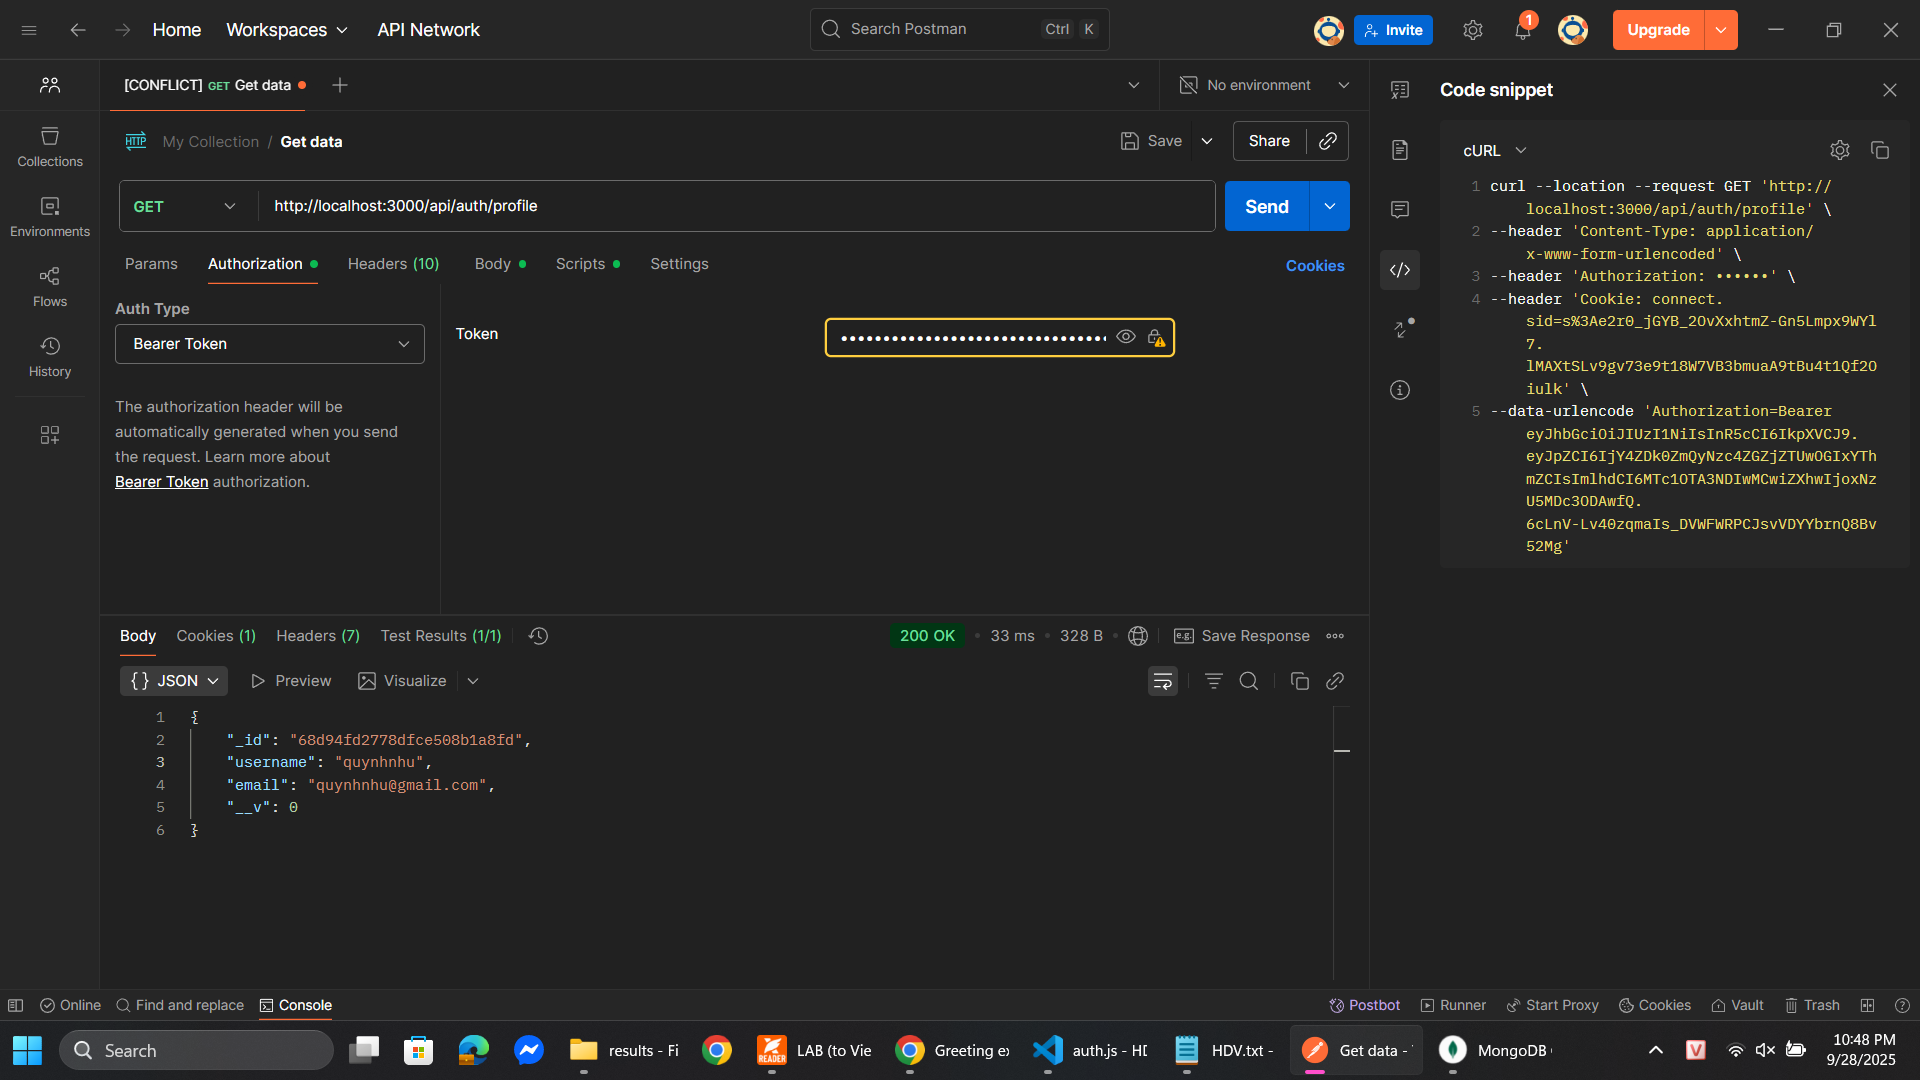
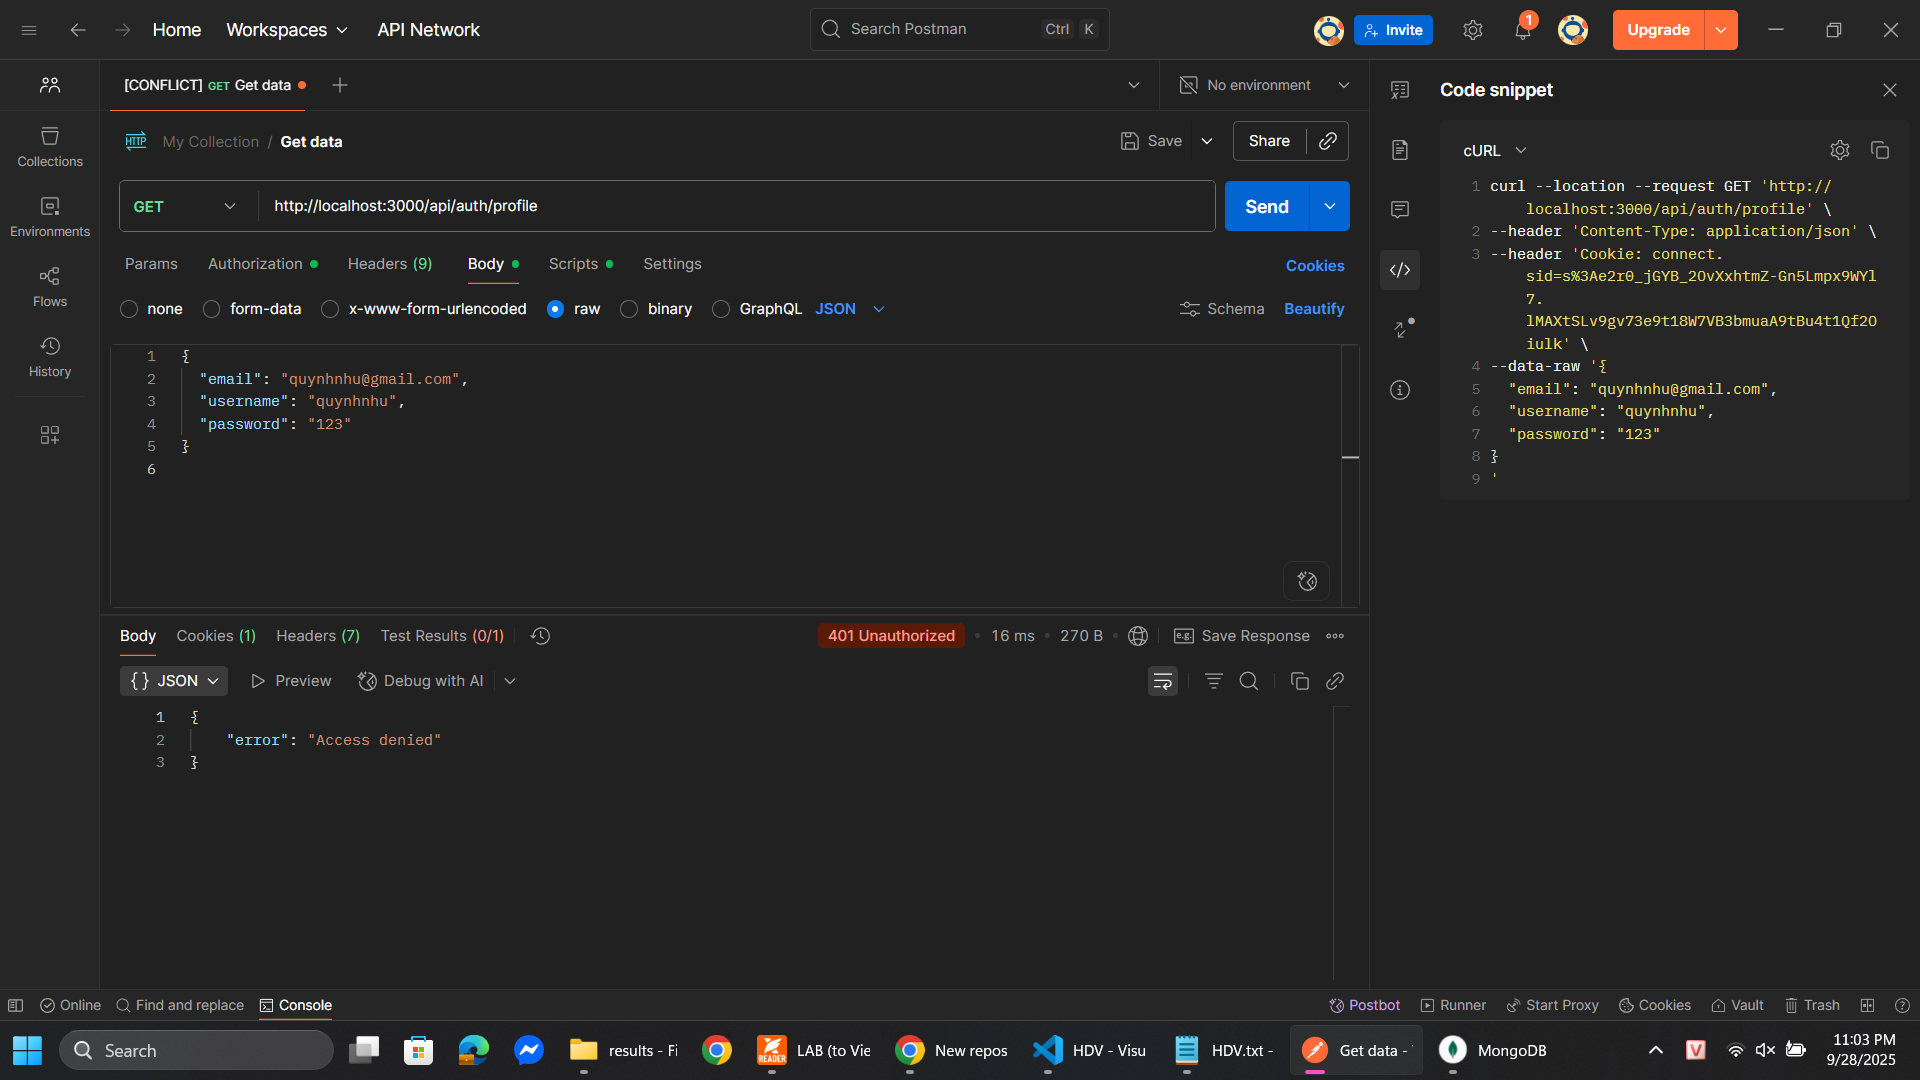
chore: push full project structure

diff --git a/README.md b/README.md
@@ -87,6 +87,13 @@ Server chạy tại: `http://localhost:3000`
 
 ## Hình minh họa
 
+### Profile
+
+![Profile](public/results/profile.png)
+*Gọi `/profile`*
+
+---
+
 ### Register
 
 ![Register](public/results/register.png)
@@ -107,9 +114,7 @@ Server chạy tại: `http://localhost:3000`
 
 ---
 
-### Profile
+### Profile with Token
 
-![Profile](public/results/profile.png)
+![Profile](public/results/profile_token.png)
 *Gọi `/profile` với Bearer Token hợp lệ*
-
----
